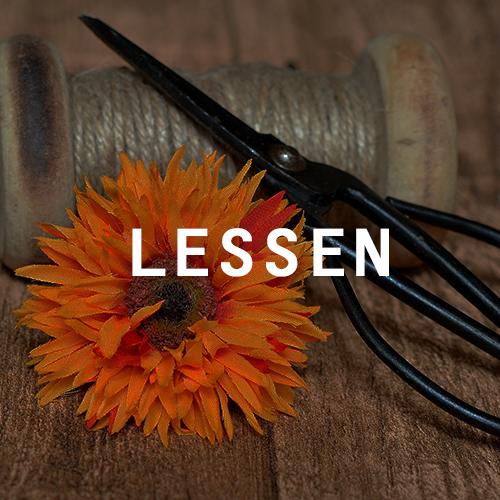
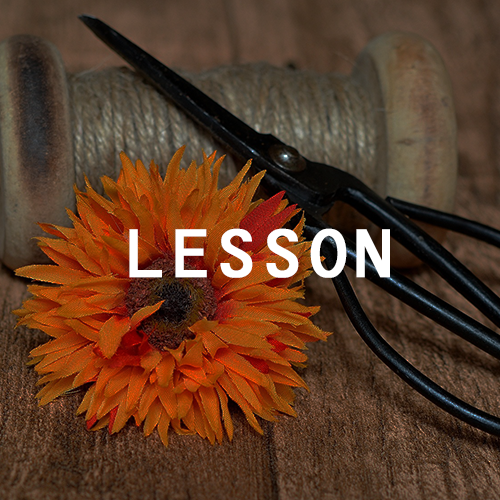
lessenをlessonに修正

Changed region(s): [[0.54, 0.45, 0.78, 0.57], [0.24, 0.45, 0.42, 0.57], [0.45, 0.45, 0.51, 0.57]]

diff --git a/index.html b/index.html
@@ -34,7 +34,7 @@ $(function(){
         <div class="menu">
           <div class="menuinner">
             <ul class="menuul">
-              <li><a href="lessen.html"><img src="img/header/menu1_off.png" alt="lessen" class="menu1"></a></li>
+              <li><a href="lesson.html"><img src="img/header/menu1_off.png" alt="lesson" class="menu1"></a></li>
               <li><a href="service.html"><img src="img/header/menu2_off.png" alt="service" class="menu2"></a></li>
               <li><a href="shop.html"> <img src="img/header/menu3_off.png" alt="shop" class="menu3"></a></li>
               <li><a href="about.html"><img src="img/header/menu4_off.png" alt="about" class="menu4"></a></li>
@@ -61,7 +61,7 @@ $(function(){
   </section>
   <section class="content">
     <div class="topmenu">
-      <a href="lessen.html"><img src="img/top/button1_off.png" alt="lessen" class="button1"></a><!--
+      <a href="lesson.html"><img src="img/top/button1_off.png" alt="lesson" class="button1"></a><!--
     --><a href="service.html"><img src="img/top/button2_off.png" alt="service" class="button2"></a><!--
     --><a href="shop.html"><img src="img/top/button3_off.png" alt="shop" class="button3"></a><!--
     --><a href="about.html"><img src="img/top/button4_off.png" alt="about" class="button4"></a><!--

diff --git a/gallery.html b/gallery.html
@@ -47,7 +47,7 @@ $(function () {
         <div class="menu">
           <div class="menuinner">
             <ul class="menuul">
-              <li><a href="lessen.html"><img src="img/header/menu1_off.png" alt="lessen" class="menu1"></a></li>
+              <li><a href="lesson.html"><img src="img/header/menu1_off.png" alt="lesson" class="menu1"></a></li>
               <li><a href="service.html"><img src="img/header/menu2_off.png" alt="service" class="menu2"></a></li>
               <li><a href="shop.html"> <img src="img/header/menu3_off.png" alt="shop" class="menu3"></a></li>
               <li><a href="about.html"><img src="img/header/menu4_off.png" alt="about" class="menu4"></a></li>

diff --git a/product.html b/product.html
@@ -36,7 +36,7 @@ $(function(){
         <div class="menu">
           <div class="menuinner">
             <ul class="menuul">
-              <li><a href="lessen.html"><img src="img/header/menu1_off.png" alt="lessen" class="menu1"></a></li>
+              <li><a href="lesson.html"><img src="img/header/menu1_off.png" alt="lesson" class="menu1"></a></li>
               <li><a href="service.html"><img src="img/header/menu2_off.png" alt="service" class="menu2"></a></li>
               <li><a href="shop.html"> <img src="img/header/menu3_off.png" alt="shop" class="menu3"></a></li>
               <li><a href="about.html"><img src="img/header/menu4_off.png" alt="about" class="menu4"></a></li>

diff --git a/service.html b/service.html
@@ -34,7 +34,7 @@ $(function(){
         <div class="menu">
           <div class="menuinner">
             <ul class="menuul">
-              <li><a href="lessen.html"><img src="img/header/menu1_off.png" alt="lessen" class="menu1"></a></li>
+              <li><a href="lesson.html"><img src="img/header/menu1_off.png" alt="lesson" class="menu1"></a></li>
               <li><a href="service.html"><img src="img/header/menu2_off.png" alt="service" class="menu2"></a></li>
               <li><a href="shop.html"> <img src="img/header/menu3_off.png" alt="shop" class="menu3"></a></li>
               <li><a href="about.html"><img src="img/header/menu4_off.png" alt="about" class="menu4"></a></li>
